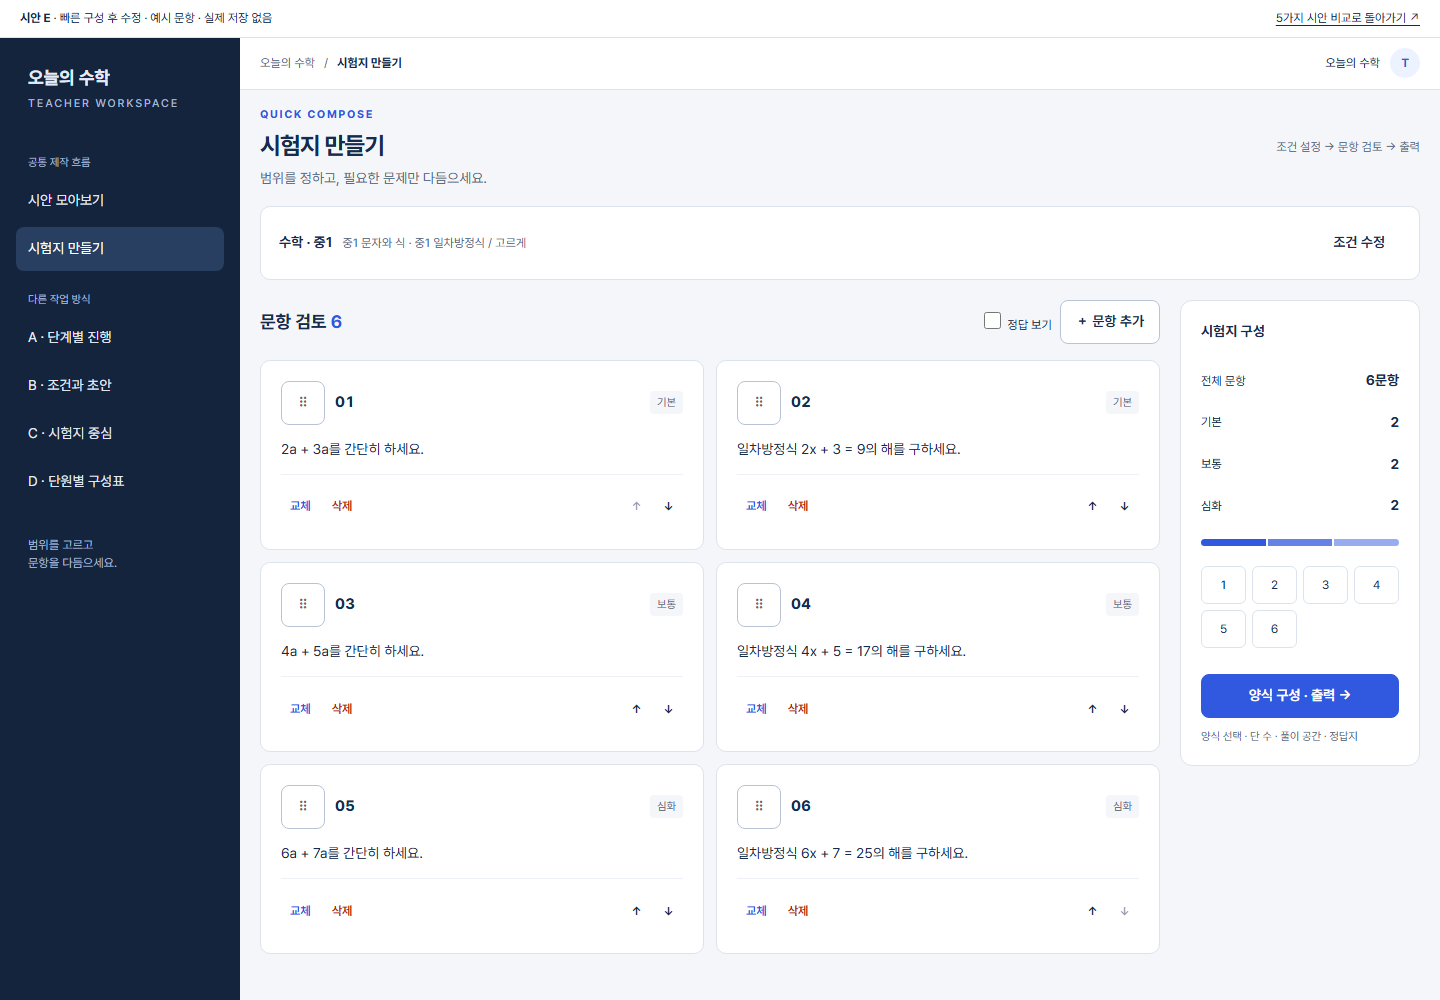
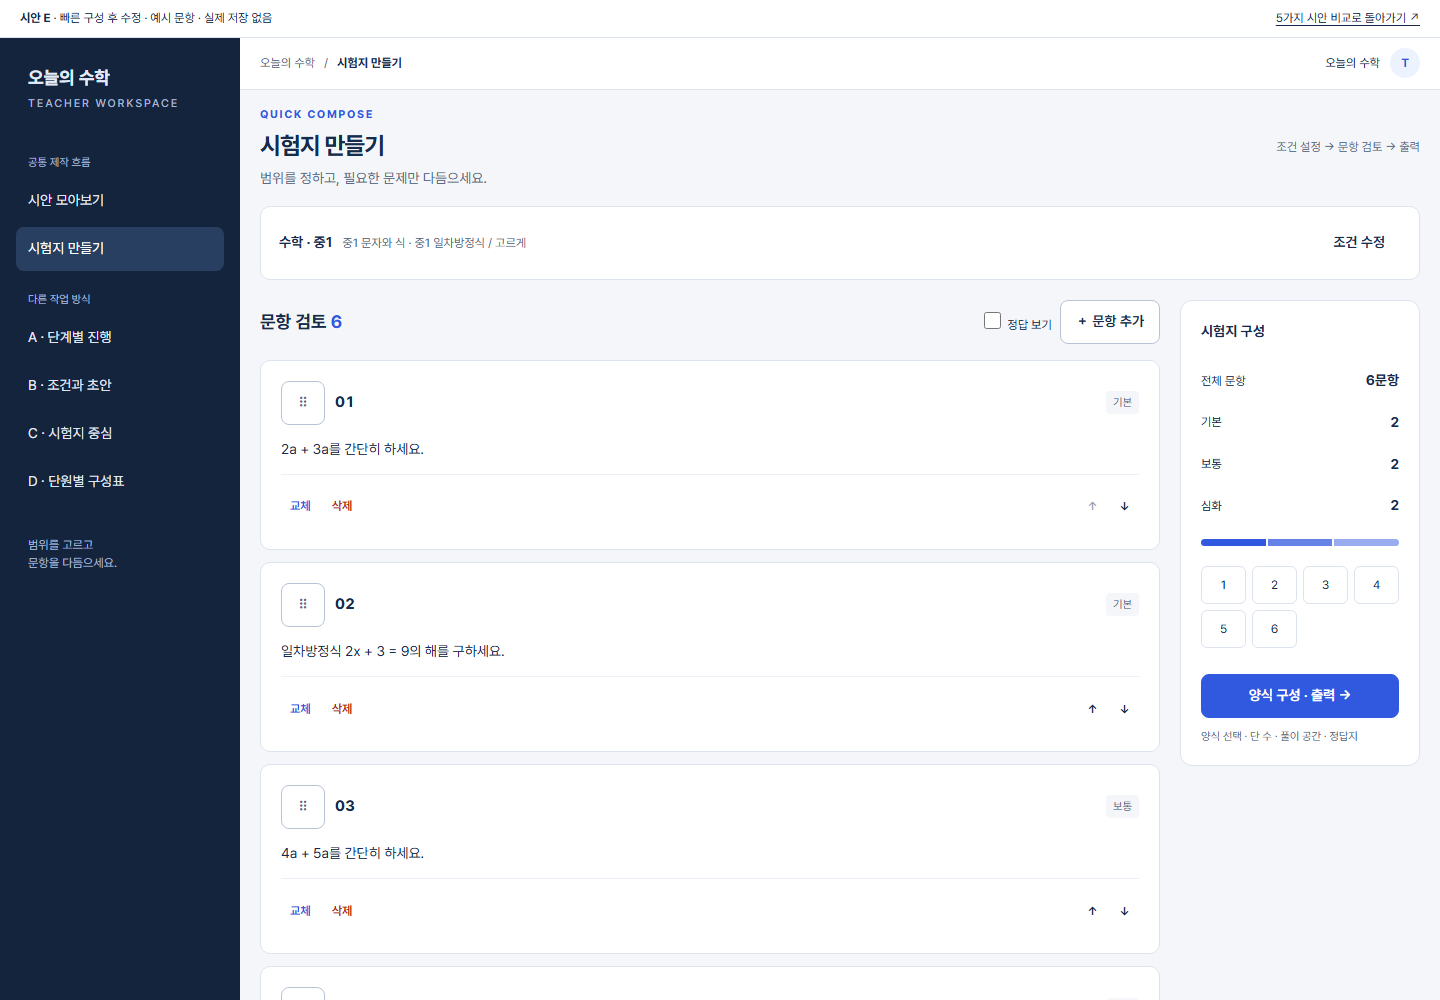
Refine selected D exam concept with aligned equal columns and compact settings

diff --git a/docs/design/mockups/exam-builder-common-20261008/d-blueprint.html b/docs/design/mockups/exam-builder-common-20261008/d-blueprint.html
@@ -1819,6 +1819,8 @@
           (n, i) => n + units()[i].questions.length,
           0,
         );
+        if (VARIANT === "D" && count && state.scopeIds.length === linked.length)
+          return "";
         return `<p class="coverage-note caption">${
           !state.scopeIds.length
             ? "출제 범위를 추가하세요."
@@ -1827,8 +1829,8 @@
               : `구성에 사용할 수 있는 자체 작성 예시: ${linked.length}개 범위 · ${count}문항`
         }</p>`;
       }
-      function titleField() {
-        return `<label class="field title-field"><span>시험지 제목</span><input id="exam-title" maxlength="80" value="${esc(state.title)}"></label>`;
+      function titleField(label = "시험지 제목") {
+        return `<label class="field title-field"><span>${esc(label)}</span><input aria-label="시험지 제목" id="exam-title" maxlength="80" value="${esc(state.title)}"></label>`;
       }
       function previewButton() {
         return `<button class="primary" data-action="preview" ${!state.items.length ? "disabled" : ""}>양식 구성 · 출력 <span aria-hidden="true">↗</span></button>`;
@@ -1862,7 +1864,7 @@
             return `<tr><td><b>${esc(u.name)}</b><p class="caption">${esc(row.grade + " · 시안 문항")}</p><div class="allocation" aria-hidden="true"><span style="width:${(state.counts[i] / 4) * 100}%"></span></div></td><td><div class="stepper"><button data-action="less" data-unit="${i}" aria-label="${esc(u.name)} 문항 수 줄이기" ${state.counts[i] === 0 ? "disabled" : ""}>−</button><output aria-label="${esc(u.name)} 구성 수">${state.counts[i]}</output><button data-action="more" data-unit="${i}" aria-label="${esc(u.name)} 문항 수 늘리기" ${state.counts[i] === 4 ? "disabled" : ""}>＋</button></div></td><td>${unitItems(i).length}문항</td></tr>`;
           })
           .join("");
-        return `<table class="blueprint-table"><thead><tr><th scope="col">선택한 출제 범위</th><th scope="col">구성할 문항 수</th><th scope="col">현재 담은 문항</th></tr></thead><tbody>${rows || '<tr><td colspan="3">출제할 범위를 선택하세요.</td></tr>'}</tbody></table>${pages > 1 ? `<div class="scope-pager" aria-label="출제 구성표 페이지"><button data-action="allocation-prev" ${allocationPage ? "" : "disabled"}>이전</button><span>${allocationPage + 1} / ${pages} · ${selected.length}개 범위</span><button data-action="allocation-next" ${allocationPage + 1 === pages ? "disabled" : ""}>다음</button></div>` : ""}`;
+        return `<table class="blueprint-table"><thead><tr><th scope="col">선택한 출제 범위</th><th scope="col">구성 수</th><th scope="col">현재</th></tr></thead><tbody>${rows || '<tr><td colspan="3">출제할 범위를 선택하세요.</td></tr>'}</tbody></table>${pages > 1 ? `<div class="scope-pager" aria-label="출제 구성표 페이지"><button data-action="allocation-prev" ${allocationPage ? "" : "disabled"}>이전</button><span>${allocationPage + 1} / ${pages} · ${selected.length}개 범위</span><button data-action="allocation-next" ${allocationPage + 1 === pages ? "disabled" : ""}>다음</button></div>` : ""}`;
       }
       function questionRuns() {
         const runs = [];
@@ -1875,7 +1877,7 @@
       }
       function renderD() {
         const total = state.counts.reduce((a, b) => a + b, 0);
-        return `${commonNote()}<div class="shell"><aside class="rail"><div><div class="brand"><span class="mark" aria-hidden="true">T</span>${esc(window.ExamScope.productName)}</div></div><nav aria-label="현재 작업"><a class="rail-link selected" href="#scope"><small>01</small>출제 구성표</a><a class="rail-link" href="#composition"><small>02</small>문항 다듬기</a><a class="rail-link" href="#output"><small>03</small>출력 설정</a></nav><div class="rail-stat"><div class="eyebrow">현재 시험지</div><div class="rail-count">${state.items.length}<span style="font-size:14px;font-weight:500;margin-left:8px">문항</span></div><p class="caption" style="color:#b4c4da;margin-top:8px">${state.order.filter((i) => unitItems(i).length).length}개 단원 · ${esc(state.subject)}</p></div><p class="rail-note">단원별 수량을 먼저 정하고<br>문항을 한 묶음씩 검토합니다.</p></aside><main class="workspace"><div class="heading spread"><div><div class="eyebrow" style="margin-bottom:8px">D · 구성표 중심</div><h1>시험지 만들기</h1><p>단원별 출제 수를 정하고, 구성을 한눈에 확인하세요.</p></div>${previewButton()}</div><section class="panel setup" id="scope" aria-labelledby="scope-title"><div class="setup-head spread"><div><h2 id="scope-title">출제 구성표</h2><p class="caption" style="margin-top:4px">선택한 범위만 표시합니다. 범위가 많으면 8개씩 나눠 확인합니다.</p></div></div>${scopeHTML()}${allocationHTML()}<div class="compose-bar"><div><span class="total">합계 ${total}문항</span><p class="caption" id="scope-status" style="margin-top:4px"></p></div><button class="primary" data-action="compose" ${total ? "" : "disabled"}>시험지 구성 <span aria-hidden="true">→</span></button></div></section><div class="initial-empty panel"><span class="eyebrow">다음 · 단원별 문항 검토</span><h2>구성표가 시험지의 뼈대가 됩니다.</h2><p class="muted">단원별 문항 수를 정한 뒤 시험지 구성을 눌러 주세요.</p></div><section id="composition" aria-labelledby="composition-title"><div class="spread results-heading"><div><h2 id="composition-title">구성한 문항 <span class="badge">${state.items.length}</span></h2><p class="caption" style="margin-top:4px">⠿ 손잡이를 끌어 원하는 위치로 옮기세요. 단원 사이 이동도 가능합니다.</p></div><div class="row"><button class="text" data-action="undo" ${history.length ? "" : "disabled"}>↶ 되돌리기</button><button data-action="add">＋ 문항 추가</button></div></div>${
+        return `${commonNote()}<div class="shell"><aside class="rail"><div><div class="brand"><span class="mark" aria-hidden="true">T</span>${esc(window.ExamScope.productName)}</div></div><nav aria-label="현재 작업"><a class="rail-link selected" href="#scope"><small>01</small>출제 구성표</a><a class="rail-link" href="#composition"><small>02</small>문항 다듬기</a><a class="rail-link" href="#output"><small>03</small>출력 설정</a></nav><div class="rail-stat"><div class="eyebrow">현재 시험지</div><div class="rail-count">${state.items.length}<span style="font-size:14px;font-weight:500;margin-left:8px">문항</span></div><p class="caption" style="color:#b4c4da;margin-top:8px">${state.order.filter((i) => unitItems(i).length).length}개 단원 · ${esc(state.subject)}</p></div><p class="rail-note">단원별 수량을 먼저 정하고<br>문항을 한 묶음씩 검토합니다.</p></aside><main class="workspace"><header class="heading blueprint-header"><h1>시험지 만들기</h1><span class="badge">D · 확정안</span></header><aside class="settings-column" aria-label="시험지 설정과 출제 범위"><section class="panel output-panel" id="output" aria-label="제목 및 출력 설정"><div class="output-fields">${titleField("제목")}${previewButton()}</div></section><section class="panel setup" id="scope" aria-label="출제 구성표">${scopeHTML()}${allocationHTML()}<div class="compose-bar"><div><span class="total">합계 ${total}문항</span><p class="caption" id="scope-status" style="margin-top:4px"></p></div><button class="primary" data-action="compose" ${total ? "" : "disabled"}>시험지 구성 <span aria-hidden="true">→</span></button></div></section></aside><div class="review-column"><div class="initial-empty panel"><span class="eyebrow">다음 · 단원별 문항 검토</span><h2>구성표가 시험지의 뼈대가 됩니다.</h2><p class="muted">단원별 문항 수를 정한 뒤 시험지 구성을 눌러 주세요.</p></div><section id="composition" aria-labelledby="composition-title"><div class="spread results-heading"><h2 id="composition-title">구성한 문항 <span class="badge">${state.items.length}</span></h2><div class="row"><button class="text" data-action="undo" ${history.length ? "" : "disabled"}>↶ 되돌리기</button><button data-action="add">＋ 문항 추가</button></div></div>${
           state.items.length
             ? questionRuns()
                 .map(
@@ -1884,7 +1886,7 @@
                 )
                 .join("")
             : '<div class="panel empty"><h2>아직 담은 문항이 없습니다</h2><p>출제 구성표에서 수량을 정하거나 문항을 추가하세요.</p></div>'
-        }</section><section class="panel output-panel" id="output"><div class="spread"><h2>양식 구성 · 출력</h2><span class="caption">문제 추출과 같은 양식 구성</span></div><div class="output-fields">${titleField()}${previewButton()}</div><p class="caption" style="margin-top:12px">다음 화면에서 양식, 단 수, 풀이 공간과 정답지 설정을 구성합니다.</p></section><p class="footnote">이 시안을 위해 작성한 문항입니다. 실제 문제은행·교육과정 검증 자료가 아니며 새로고침하면 편집 내용이 초기화됩니다.</p></main></div>`;
+        }</section></div><p class="footnote">이 시안을 위해 작성한 문항입니다. 실제 문제은행·교육과정 검증 자료가 아니며 새로고침하면 편집 내용이 초기화됩니다.</p></main></div>`;
       }
       function scopeStatus() {
         if (VARIANT === "C") {
@@ -1962,6 +1964,9 @@
             );
         ExamQuestionPicker.open({
           mode,
+          getDialogWidth: current
+            ? () => $("#composition").getBoundingClientRect().width
+            : undefined,
           levels: units()
             .flatMap((u) => u.questions)
             .map((q) => q.level),

diff --git a/docs/design/mockups/exam-builder-common-20261008/editing-layout.css b/docs/design/mockups/exam-builder-common-20261008/editing-layout.css
@@ -50,7 +50,9 @@
   }
   .question-list,
   .question-group,
-  .questions {
+  .questions,
+  .unit-content {
+    grid-template-columns: minmax(0, 1fr);
     align-items: start;
   }
   .question-list > .group-panel {
@@ -76,14 +78,129 @@
   .eqp-dialog {
     font-family: inherit;
   }
-  @media (min-width: 1200px) {
+  .blueprint-mode .settings-column {
+    display: grid;
+    gap: 12px;
+    min-width: 0;
+    margin-bottom: 16px;
+  }
+  .blueprint-mode .settings-column #scope,
+  .blueprint-mode .settings-column #output {
+    margin: 0;
+  }
+  .uncomposed .settings-column #output {
+    display: block;
+  }
+  .blueprint-mode .settings-column .output-fields {
+    display: flex;
+    flex-wrap: wrap;
+    gap: 12px;
+    margin: 0;
+    align-items: center;
+  }
+  .blueprint-mode .output-fields .title-field {
+    display: flex;
+    align-items: center;
+    gap: 8px;
+    flex: 1;
+    min-width: 140px;
+    margin: 0;
+  }
+  .blueprint-mode .title-field > span {
+    flex-shrink: 0;
+  }
+  .blueprint-mode .title-field input {
+    min-width: 0;
+    flex: 1;
+  }
+  .blueprint-mode .settings-column .output-fields > .primary {
+    grid-column: auto;
+  }
+  .blueprint-mode .review-column {
+    min-width: 0;
+  }
+  .blueprint-mode .blueprint-header {
+    display: flex;
+    align-items: center;
+    flex-wrap: wrap;
+    gap: 12px;
+    min-height: 44px;
+    margin-bottom: 12px;
+  }
+  .blueprint-mode .output-panel,
+  .blueprint-mode .results-heading {
+    padding: 12px 16px;
+    min-height: 70px;
+    border: 1px solid var(--learn-track);
+    border-radius: 12px;
+    background: var(--learn-surface);
+  }
+  .blueprint-mode .results-heading {
+    margin: 0 0 12px;
+    gap: 8px;
+  }
+  .blueprint-mode .results-heading .row {
+    gap: 8px;
+  }
+  .blueprint-mode .setup-head,
+  .blueprint-mode .selected-scope,
+  .blueprint-mode .compose-bar,
+  .blueprint-mode .unit-heading {
+    padding: 12px 16px;
+  }
+  .blueprint-mode .scope-summary {
+    padding: 0;
+    border: 0;
+    gap: 12px;
+    min-height: 44px;
+  }
+  .blueprint-mode .selected-scope {
+    border-bottom: 1px solid var(--learn-track);
+  }
+  .blueprint-mode .scope-summary > div {
+    display: flex;
+    align-items: baseline;
+    flex-wrap: wrap;
+    gap: 4px 12px;
+  }
+  .blueprint-mode .scope-summary p {
+    margin: 0;
+  }
+  .blueprint-mode .scope-help {
+    display: none;
+  }
+  .blueprint-mode .coverage-note {
+    margin: 8px 0 0;
+  }
+  .blueprint-mode .blueprint-table td:first-child p {
+    display: inline;
+    margin-left: 8px;
+  }
+  .blueprint-mode .allocation {
+    display: none;
+  }
+  .blueprint-mode .compose-bar > div,
+  .blueprint-mode .unit-name > div {
+    display: flex;
+    align-items: baseline;
+    flex-wrap: wrap;
+    gap: 4px 8px;
+  }
+  .blueprint-mode .unit-group {
+    margin-bottom: 12px;
+  }
+  .blueprint-mode .top-note {
+    min-height: 44px;
+    padding: 0 20px;
+  }
+  @media (min-width: 861px) {
     .blueprint-mode .shell {
       grid-template-columns: 184px minmax(0, 1fr);
     }
     .blueprint-mode .workspace {
       display: grid;
-      grid-template-columns: 440px minmax(0, 1fr);
-      gap: 16px 20px;
+      grid-template-columns: repeat(2, minmax(0, 1fr));
+      gap: 12px 20px;
       align-content: start;
       align-items: start;
     }
@@ -92,24 +209,17 @@
       grid-column: 1 / -1;
       margin: 0;
     }
-    .blueprint-mode #scope {
+    .blueprint-mode .settings-column {
       grid-column: 1;
-      grid-row: 2 / span 2;
+      grid-row: 2;
       margin: 0;
     }
-    .blueprint-mode #composition {
+    .blueprint-mode .review-column {
       grid-column: 2;
       grid-row: 2;
       min-width: 0;
     }
-    .blueprint-mode #output {
-      grid-column: 2;
-      grid-row: 3;
-      margin: 0;
-    }
     .blueprint-mode .initial-empty {
-      grid-column: 2;
-      grid-row: 2;
       margin: 0;
     }
     .blueprint-mode .results-heading {
@@ -122,43 +232,48 @@
       width: auto;
     }
     .blueprint-mode .blueprint-table th:nth-child(2) {
-      width: 140px;
+      width: 132px;
     }
     .blueprint-mode .blueprint-table th:last-child {
-      width: 90px;
+      width: 72px;
     }
     .blueprint-mode .blueprint-table td:last-child {
       white-space: nowrap;
     }
-    .blueprint-mode .output-fields {
-      display: flex;
-      flex-wrap: wrap;
-      align-items: end;
-    }
-    .blueprint-mode .output-fields .title-field {
-      flex: 1;
-      min-width: 180px;
-    }
-    .blueprint-mode .output-fields button {
-      flex-shrink: 0;
-    }
     .question-list,
     .question-group {
       display: grid;
-      grid-template-columns: repeat(auto-fit, minmax(min(100%, 420px), 1fr));
+      grid-template-columns: minmax(0, 1fr);
       gap: 12px;
     }
     .unit-content {
       display: grid;
-      grid-template-columns: repeat(auto-fit, minmax(min(100%, 320px), 1fr));
+      grid-template-columns: minmax(0, 1fr);
       gap: 0 20px;
       align-items: start;
     }
     .unit-content > .passage {
       grid-column: 1 / -1;
     }
-    .questions {
-      grid-template-columns: repeat(auto-fit, minmax(340px, 1fr));
+  }
+  @media (min-width: 861px) and (max-width: 1199px) {
+    .blueprint-mode .shell {
+      display: block;
+    }
+    .blueprint-mode .rail {
+      flex-direction: row;
+      align-items: center;
+      justify-content: space-between;
+      padding: 12px 20px;
+      gap: 16px;
+    }
+    .blueprint-mode .rail nav {
+      display: flex;
+      gap: 8px;
+    }
+    .blueprint-mode .rail-stat,
+    .blueprint-mode .rail-note {
+      display: none;
     }
   }
   @media (max-width: 860px) {

diff --git a/docs/design/mockups/exam-builder-common-20261008/index.html b/docs/design/mockups/exam-builder-common-20261008/index.html
@@ -547,11 +547,10 @@
       </details>
       <div class="cards" id="cards"></div>
       <div class="note">
-        <strong>추천 출발점은 A의 단계 구분 + C의 문항 편집입니다.</strong>
+        <strong>D안으로 확정 · 단원별 구성표를 고도화합니다.</strong>
         <p>
-          첫 진입에서는 조건만 간단히 받고, 구성 후에는 시험지 내용을 넓게
-          보여주는 조합입니다. 반복 제작이 많다면 E의 빠른 구성을 첫 단계에 더할
-          수 있습니다.
+          왼쪽에 제목과 출제 조건을 모으고, 오른쪽은 한 행에 한 문항씩
+          검토합니다.
         </p>
       </div>
       <section id="viewer" class="viewer" hidden aria-labelledby="viewer-title">
@@ -624,7 +623,7 @@
           id: "D",
           file: "d-blueprint.html",
           title: "단원별 구성표",
-          desc: "어느 범위에서 몇 문제를 낼지 먼저 정하고, 단원별로 확인합니다.",
+          desc: "확정안 · 왼쪽에서 제목과 출제 조건을 설정하고, 오른쪽에서 문항을 확인합니다.",
           flow: "범위별 문항 배분 → 묶음 검토 → 공통 양식 구성",
           fit: "여러 단원이 섞인 정기 평가",
           image: "previews/d.png",
